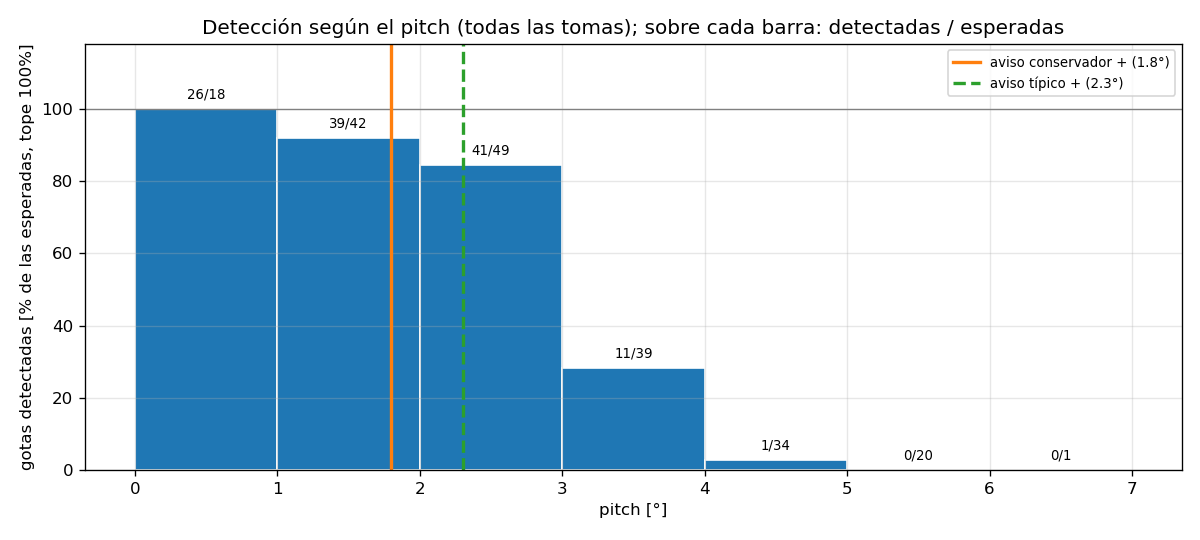
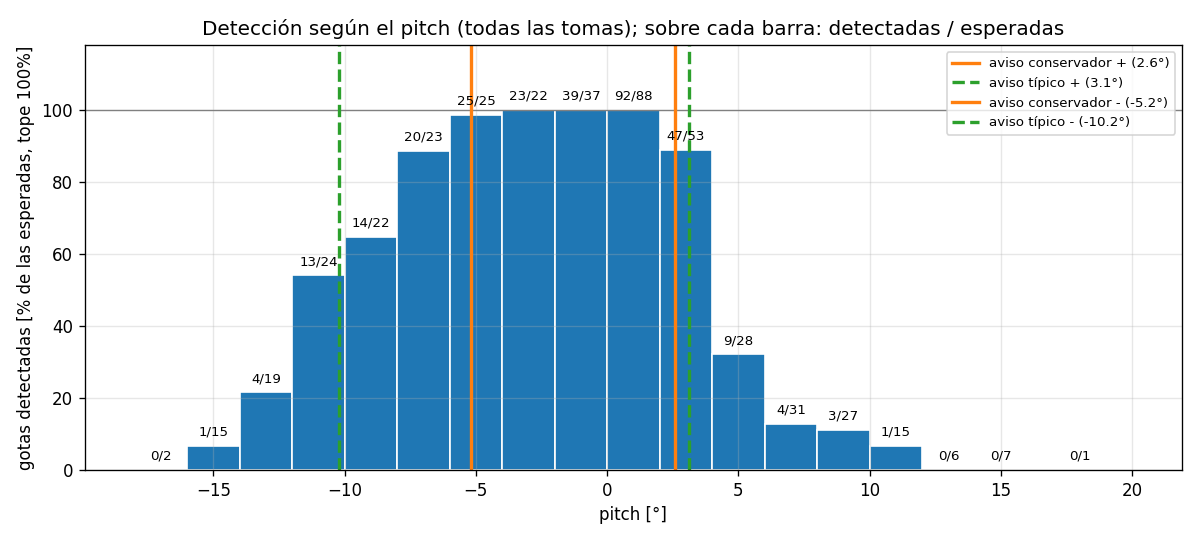
Se probo y midio el angulo pruebaopt101. Tambien se modifico el umbral para q funcione test display.

diff --git a/firmware/projects/analisis_opt101/analizar_angulo.py b/firmware/projects/analisis_opt101/analizar_angulo.py
@@ -37,11 +37,15 @@ import matplotlib.pyplot as plt
 # ------------------------------------------------------------------------------------------
 # Config
 # ------------------------------------------------------------------------------------------
-CARPETA = Path(r"C:\Users\Jose\OneDrive\Escritorio\Datos OPT101\Comparacion\Filtrada para plantilla")
+CARPETA = Path(r"C:\Users\Jose\OneDrive\Escritorio\Datos BPW34\prueba opt101")
 TOMAS = {
-    "Toma 1": CARPETA / "Goteo y angulo.csv",
-    "Toma 2": CARPETA / "Goteo y angulo 2.csv",
-    # Agregar acá las tomas nuevas: "Toma 3": CARPETA / "Goteo y angulo 3.csv",
+    # Dos tomas que se inclinan primero hacia el lado positivo (o1 y o2) y dos primero hacia el negativo (o3 y o4): así el orden
+    # del desplazamiento no sesga el resultado de ningún lado (mismo criterio que con el BPW34).
+    "o1": CARPETA / "o1.csv",     # primero positivo
+    "o2": CARPETA / "o2.csv",     # primero positivo, goteo más rápido que o1
+    "o3": CARPETA / "o3.csv",     # primero negativo
+    "o4": CARPETA / "o4.csv",     # primero negativo
+    # Agregar acá las tomas nuevas: "o5": CARPETA / "o5.csv",
 }
 
 SAMPLE_PERIOD_US = 700.0     # SAMPLE_PERIOD_US de prueba_opt101 (el de pruebabpw34 es 1200)
@@ -51,9 +55,8 @@ COL_PITCH = 3                # columna 4 del CSV
 
 VENTANA_MEDIANA = 5          # líneas del filtro de mediana del pitch (5 líneas ~ 50 ms): saca los picos aislados
 FACTOR_CORTE = 2.5           # un "corte" es un intervalo entre gotas mayor a FACTOR_CORTE x el período típico
-ANALIZAR_LADO_NEGATIVO = False  # por ahora se analiza solo el lado positivo: en teoría el negativo debería ser simétrico, pero no se
-                             # puede comprobar con el prototipo (se mide después con el acelerómetro nuevo). Con True se analiza
-                             # también (cortes, aviso y rangos de pitch negativos)
+ANALIZAR_LADO_NEGATIVO = True   # True: se analizan los dos lados (cortes, aviso y rangos de ángulo positivos y negativos). Con el
+                             # acelerómetro nuevo las tomas llegan a ángulos negativos. False: solo el lado positivo
 PITCH_MIN_CORTE_ANGULO = 3.0 # un corte cuenta como "por ángulo" del lado positivo si el pitch llega al menos a esto durante el corte
 PITCH_MIN_CORTE_NEGATIVO = 2.0  # y del lado negativo (solo si ANALIZAR_LADO_NEGATIVO) si llega al menos a -esto
 PITCH_ARRANQUE_MIN = 1.0     # además, la última gota antes del corte tiene que estar ya inclinada al menos esto de ese lado
@@ -63,8 +66,8 @@ MARGEN_AVISO_GRADOS = 0.5    # el aviso se pone esto antes (del lado del reposo)
 HISTERESIS_GRADOS = 0.5      # el aviso se apaga esto por debajo del ángulo en que se enciende
 EXCLUIR_CORTES = {}          # cortes que no son por ángulo (ej. cortaste el flujo), por toma: {"Toma 4": [2]} (número de la tabla).
                              # El arranque del goteo ya lo descarta PITCH_ARRANQUE_MIN: la lista queda para casos que el criterio no resuelva
-INTERVALOS_PITCH_NEGATIVO = [-5.0, -4.0, -3.0, -2.5, -2.0, -1.0]                                   # rangos de pitch negativo (solo si ANALIZAR_LADO_NEGATIVO)
-INTERVALOS_PITCH_POSITIVO = [0.0, 1.0, 2.0, 3.0, 4.0, 5.0, 6.0, 7.0, 8.0, 9.0, 14.0]                # rangos de pitch positivo para la tasa de detección
+INTERVALOS_PITCH_NEGATIVO = [-20.0, -18.0, -16.0, -14.0, -12.0, -10.0, -8.0, -6.0, -4.0, -2.0]     # rangos de ángulo negativo (solo si ANALIZAR_LADO_NEGATIVO)
+INTERVALOS_PITCH_POSITIVO = [0.0, 2.0, 4.0, 6.0, 8.0, 10.0, 12.0, 14.0, 16.0, 20.0]                 # rangos de ángulo positivo para la tasa de detección
 INTERVALOS_PITCH = (INTERVALOS_PITCH_NEGATIVO if ANALIZAR_LADO_NEGATIVO else []) + INTERVALOS_PITCH_POSITIVO
 
 GUARDAR_PNG = True           # guarda los gráficos como PNG en esta carpeta

diff --git a/firmware/projects/pruebabpw34/main/pruebabpw34.c b/firmware/projects/pruebabpw34/main/pruebabpw34.c
@@ -115,7 +115,7 @@
 #define MODE_DETECTOR          2 /*!< Detecta la gota por correlación cruzada con la plantilla y la avisa en un tercer valor de la línea */
 #define MODE_ANGLE             3 /*!< Detecta la gota como MODE_DETECTOR y transmite solo "deteccion,0,0,pitch" (pitch del acelerómetro) */
 
-#define TEST_MODE              MODE_ANGLE /*!< Modo activo. Cambiar acá para pasar de etapa. */
+#define TEST_MODE              MODE_DETECTOR /*!< Modo activo. Cambiar acá para pasar de etapa. */
 
 #define ADC_CHANNEL_BPW34_1  CH2   /*!< Canal ADC de la salida del amplificador del BPW34 n°1 (GPIO_2) */
 #define ADC_CHANNEL_BPW34_2  CH3   /*!< Canal ADC de la salida del amplificador del BPW34 n°2 (GPIO_3).
